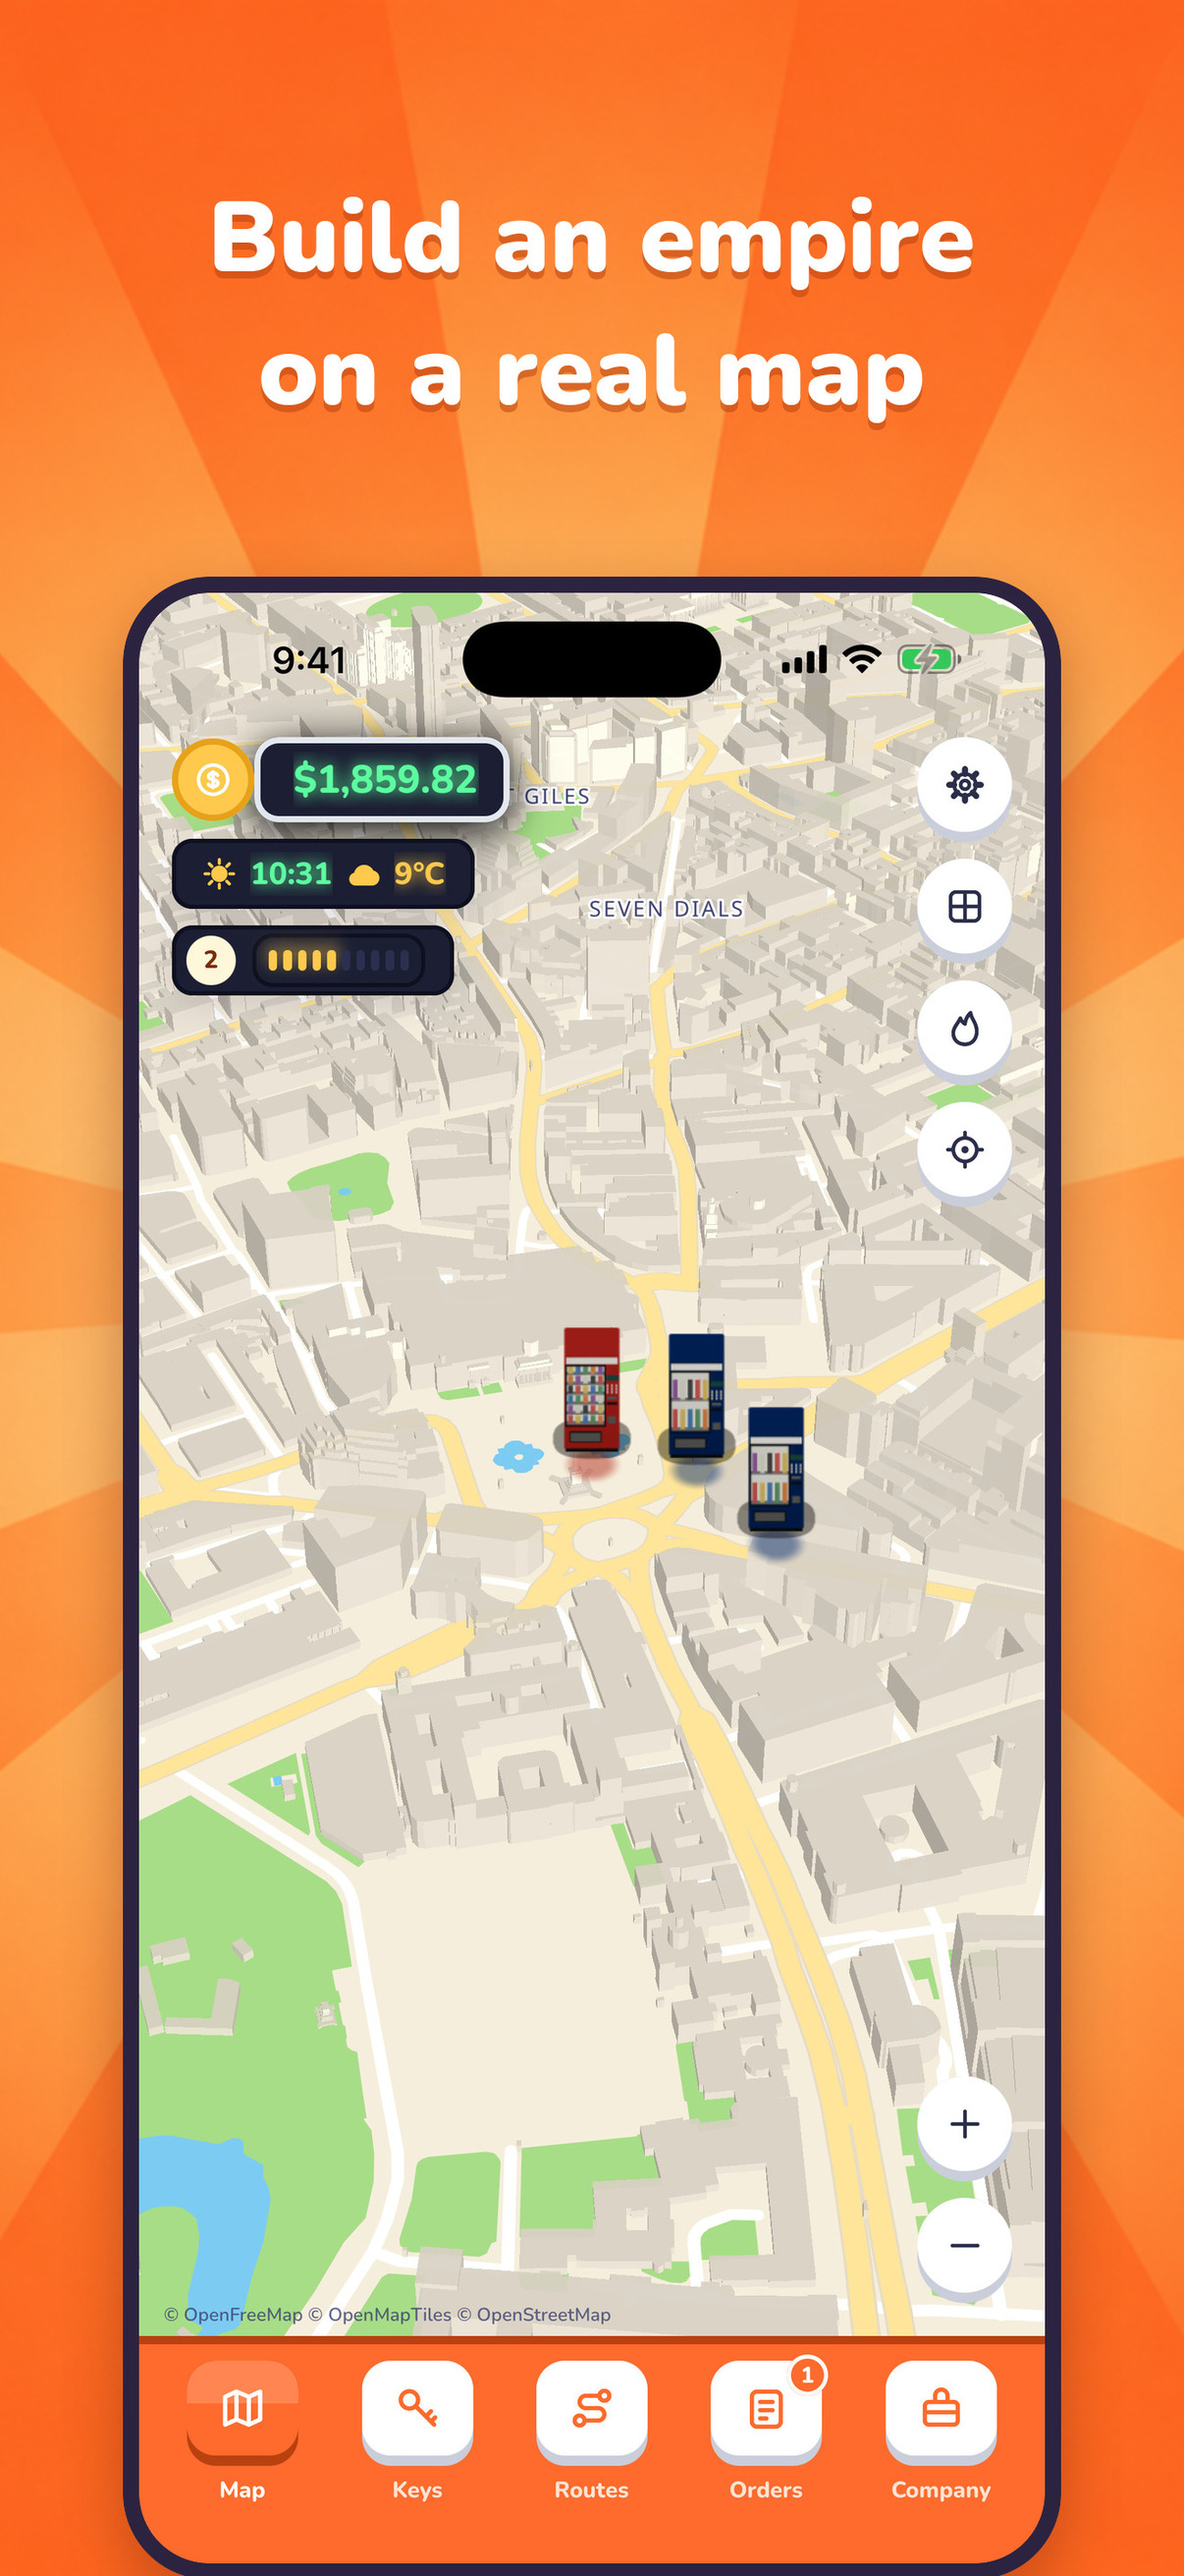
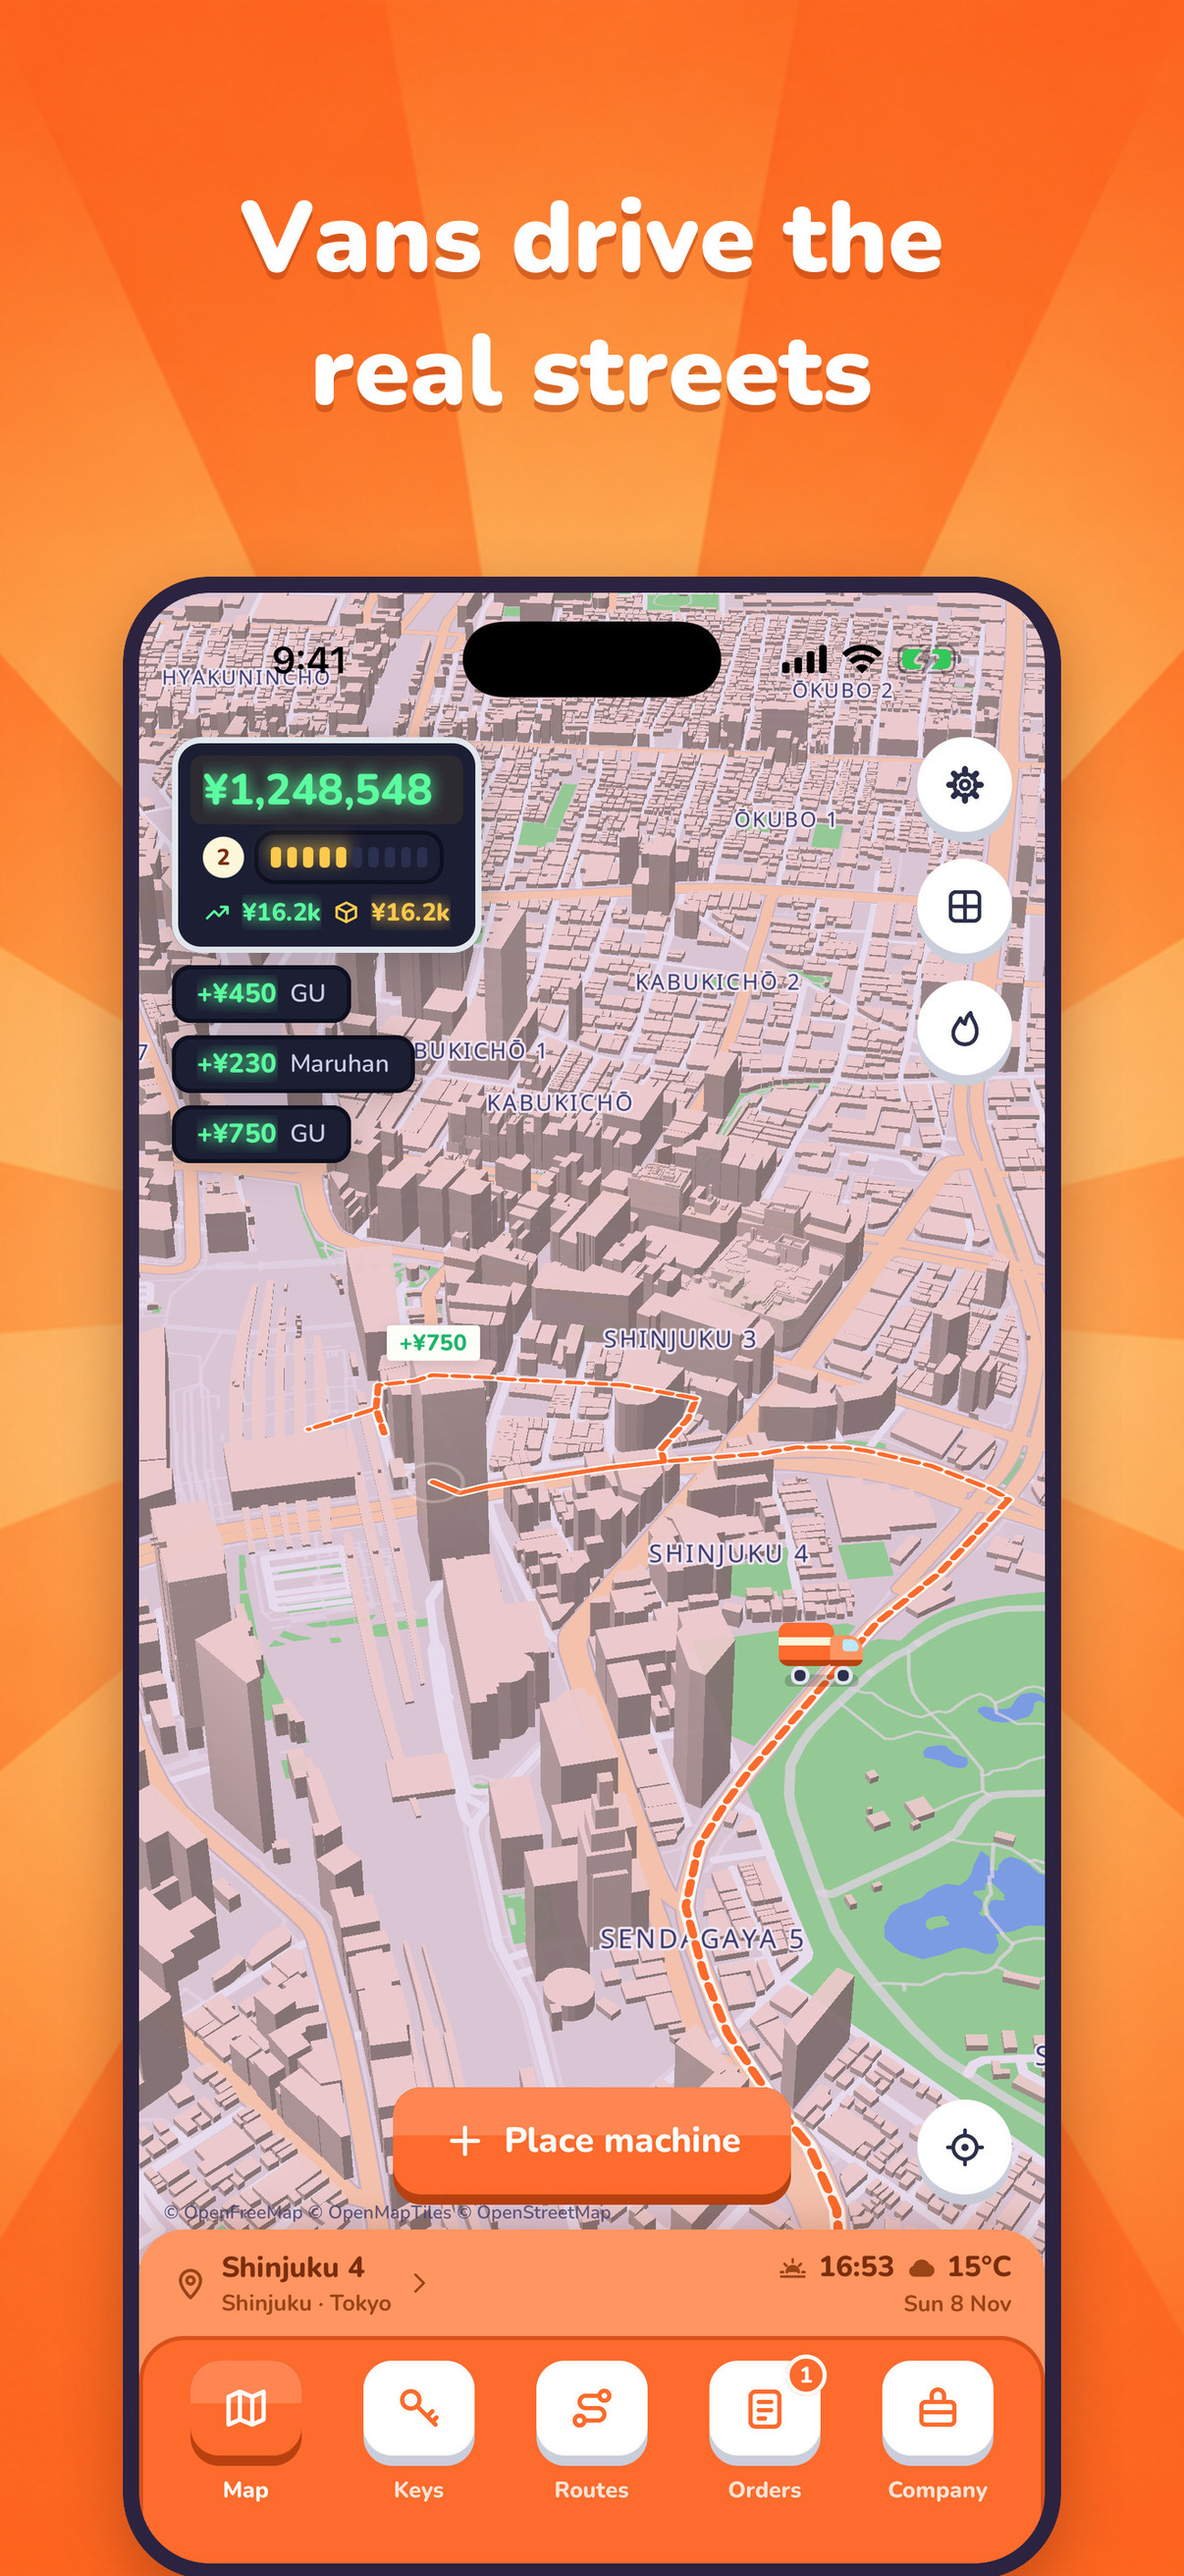
Store screenshots and description: delivery vans, Restock low, drivers

diff --git a/docs/app-store/listing.md b/docs/app-store/listing.md
@@ -45,9 +45,14 @@ STOCK WHAT SELLS
 • Set your prices, fill the coils, and watch customers walk up to buy
 • Collect the coins before the cash box fills
 
+RESTOCK BY VAN
+• Order stock and a delivery van loads at a real warehouse nearby
+• Watch it drive the actual streets of your city to your machine
+• One tap sends a van around every machine that's running low
+
 GROW THE BUSINESS
 • Five chapters, from side hustle to empire
-• Hire drivers, plan routes, rent a warehouse and buy smart machines with telemetry
+• Hire drivers whose vans run your routes for you, rent a warehouse and buy smart machines with telemetry
 • Research upgrades, complete collections, outplay a rival operator
 
 A LIVING CITY
